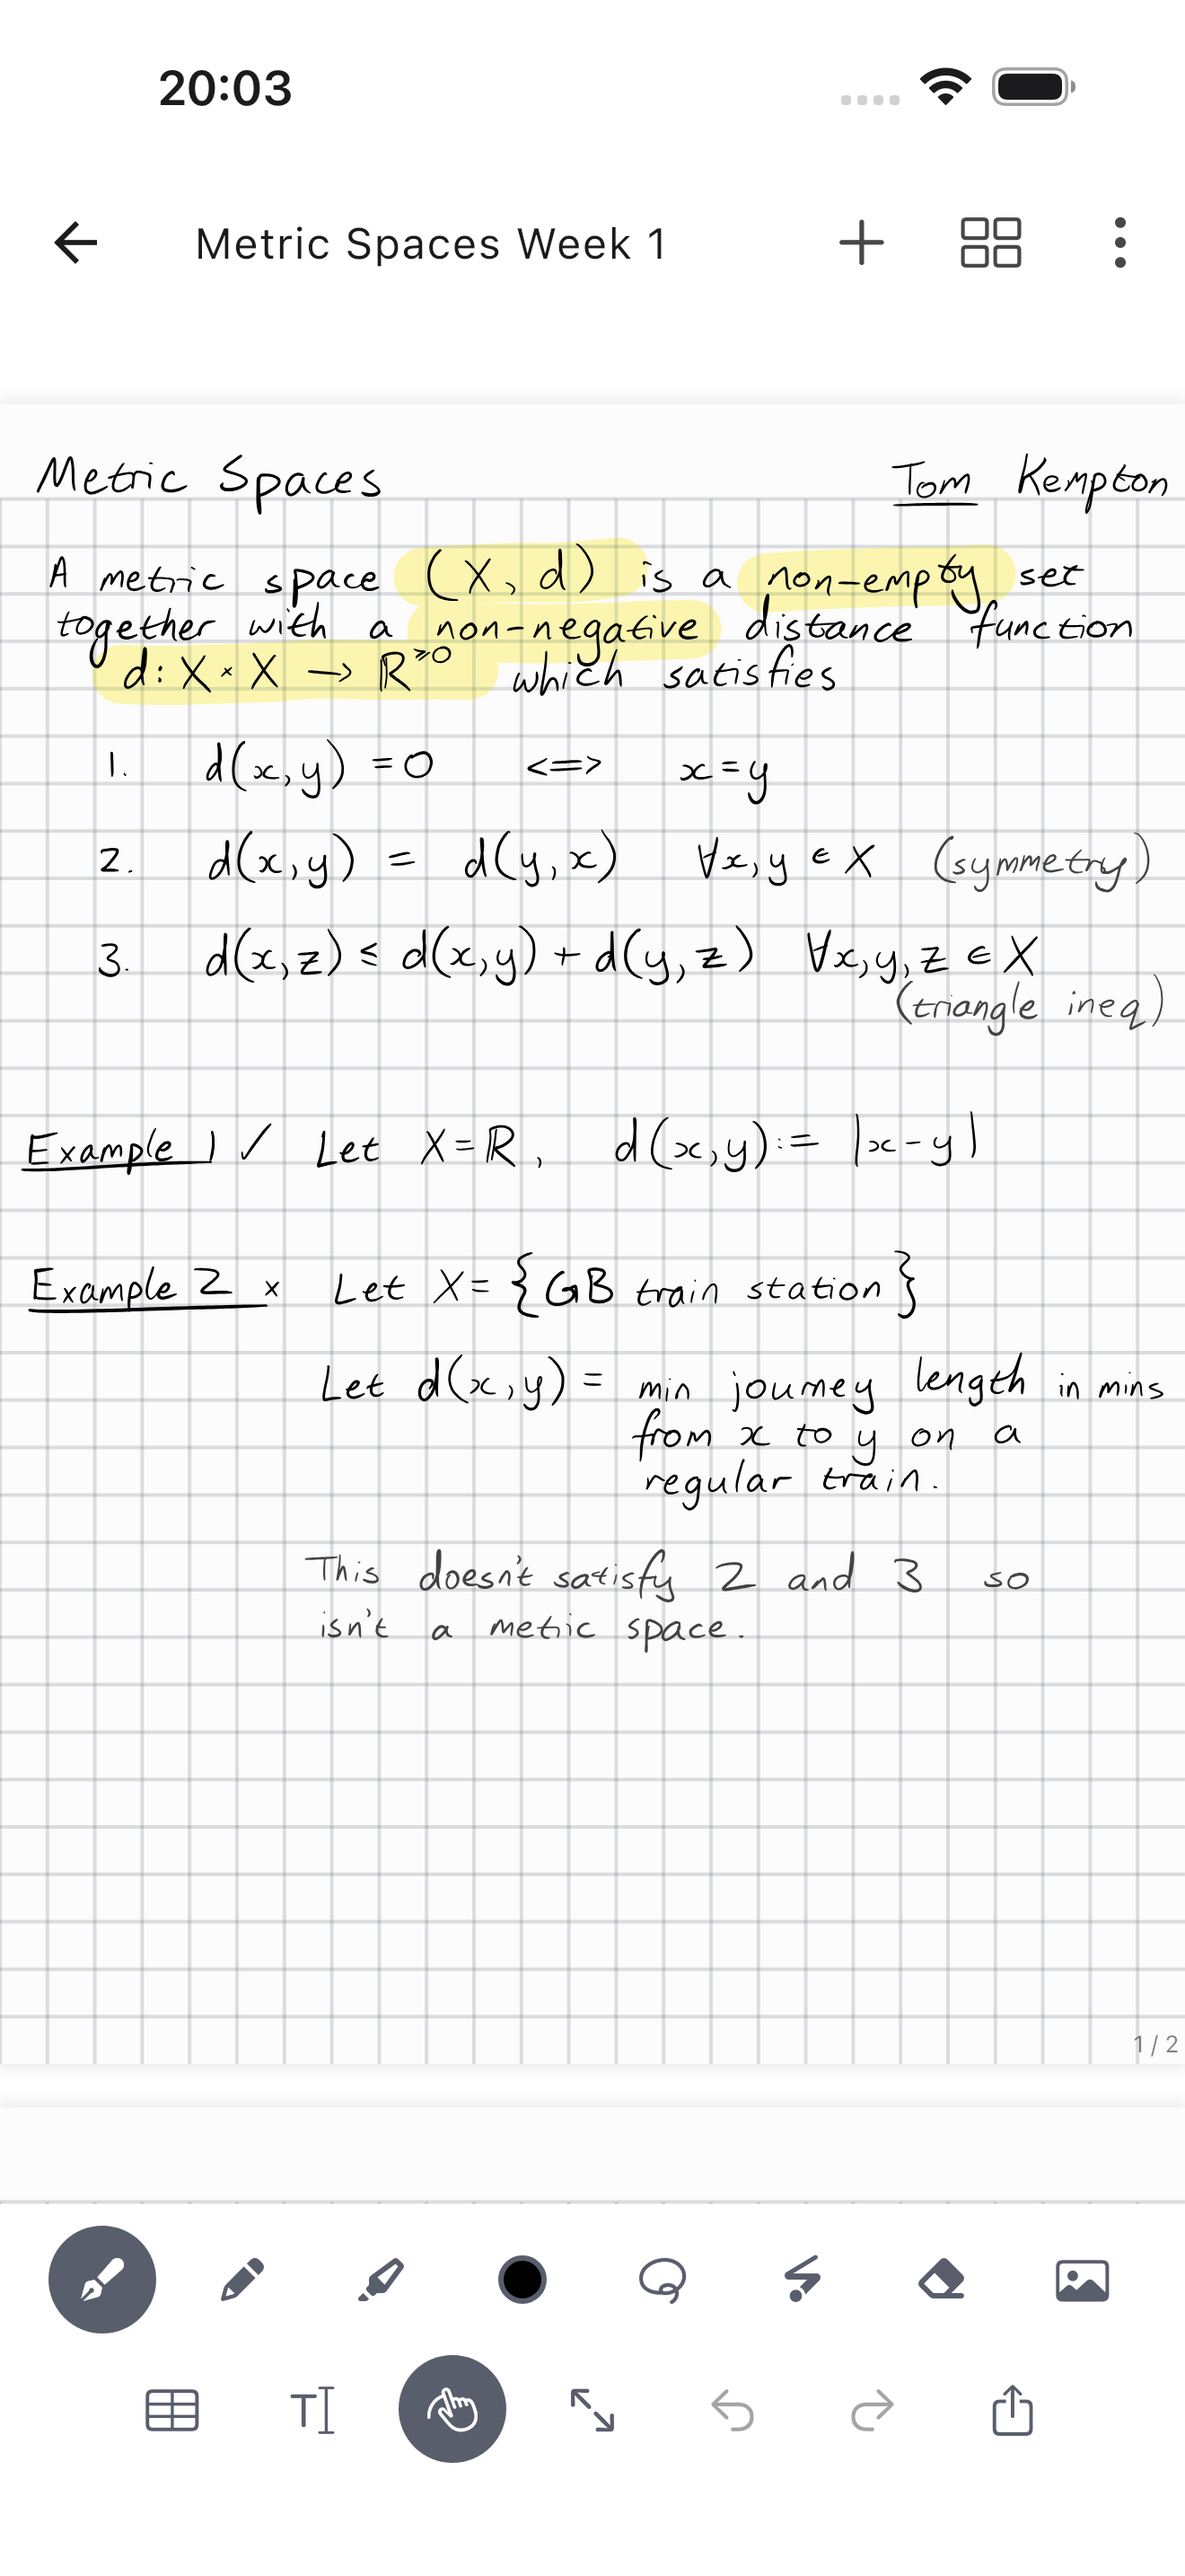
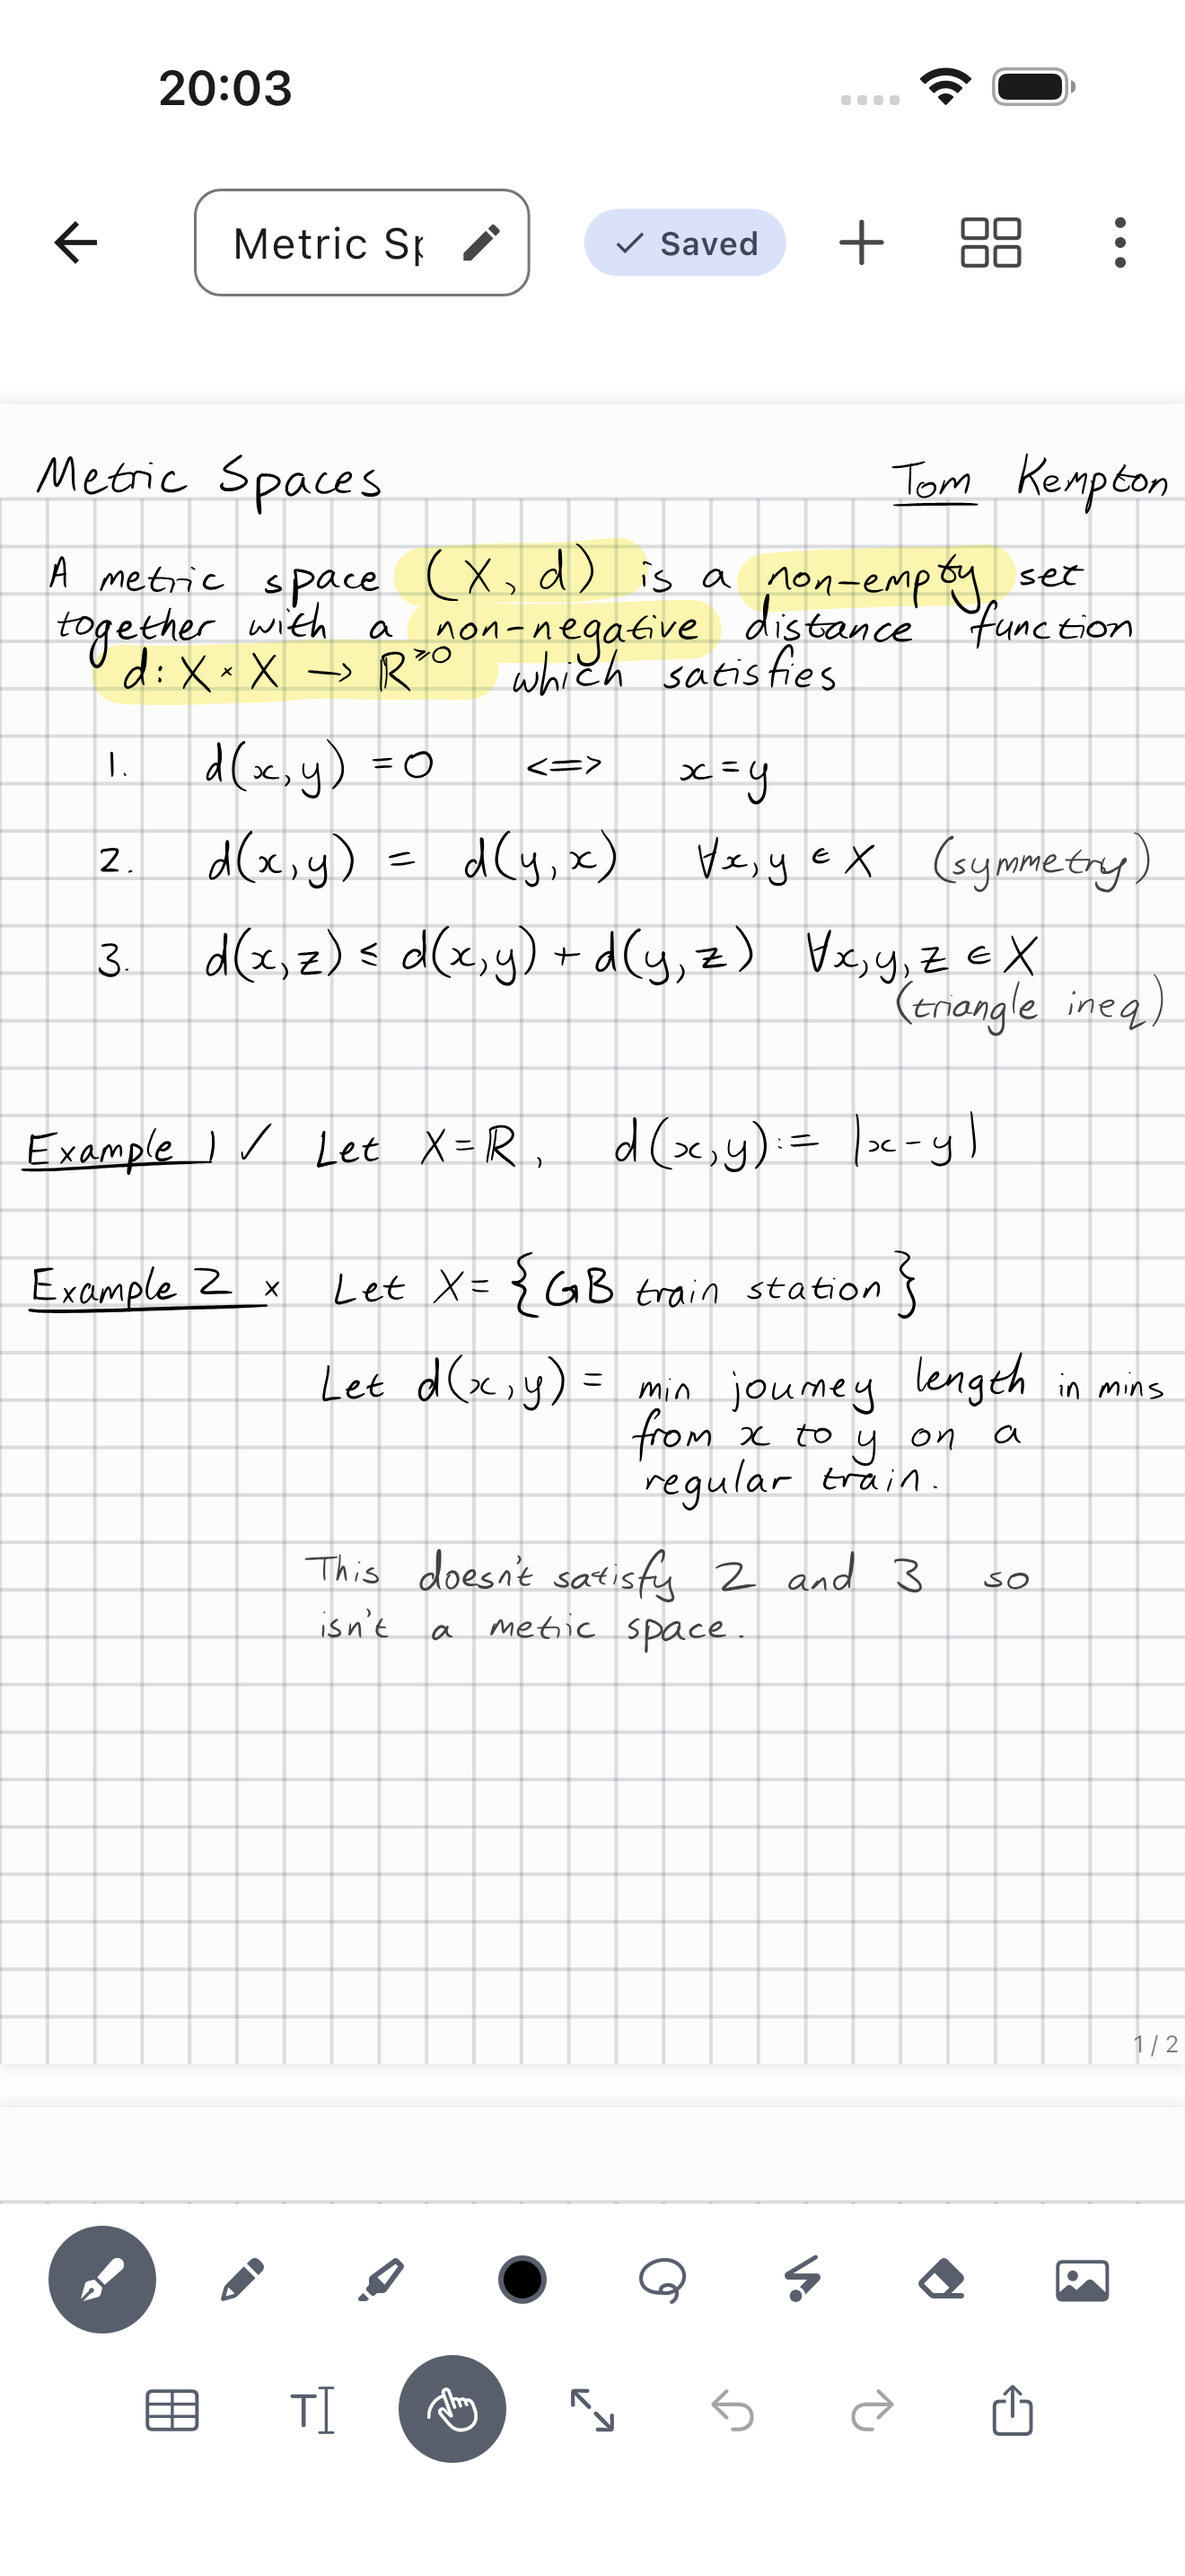
Update editor screenshots; start back-arrow test from a clean folder
The editor screenshots now show the outlined note name and the Saved
sign. The back-arrow test failed when a file from an earlier run was
left in its folder; it now starts from an empty one.

Claude-Session: https://claude.ai/code/session_01RHx4f434EyqTkjJ4T321Pn

Changed region(s): [[0.1553, 0.0621, 0.4659, 0.1241], [0.497, 0.0621, 0.6523, 0.1241]]

diff --git a/test/new_note_appears_in_recents_test.dart b/test/new_note_appears_in_recents_test.dart
@@ -129,6 +129,9 @@ void main() {
     stows.layoutSize.value = .tablet;
     FileManager.documentsDirectory =
         '$tmpDir/backArrow/${FileManager.appRootDirectoryPrefix}';
+    final docs = Directory(FileManager.documentsDirectory);
+    if (docs.existsSync()) docs.deleteSync(recursive: true);
+    docs.createSync(recursive: true);
     tester.view.physicalSize = const Size(1600, 2560);
     tester.view.devicePixelRatio = 2;
     addTearDown(tester.view.reset);
